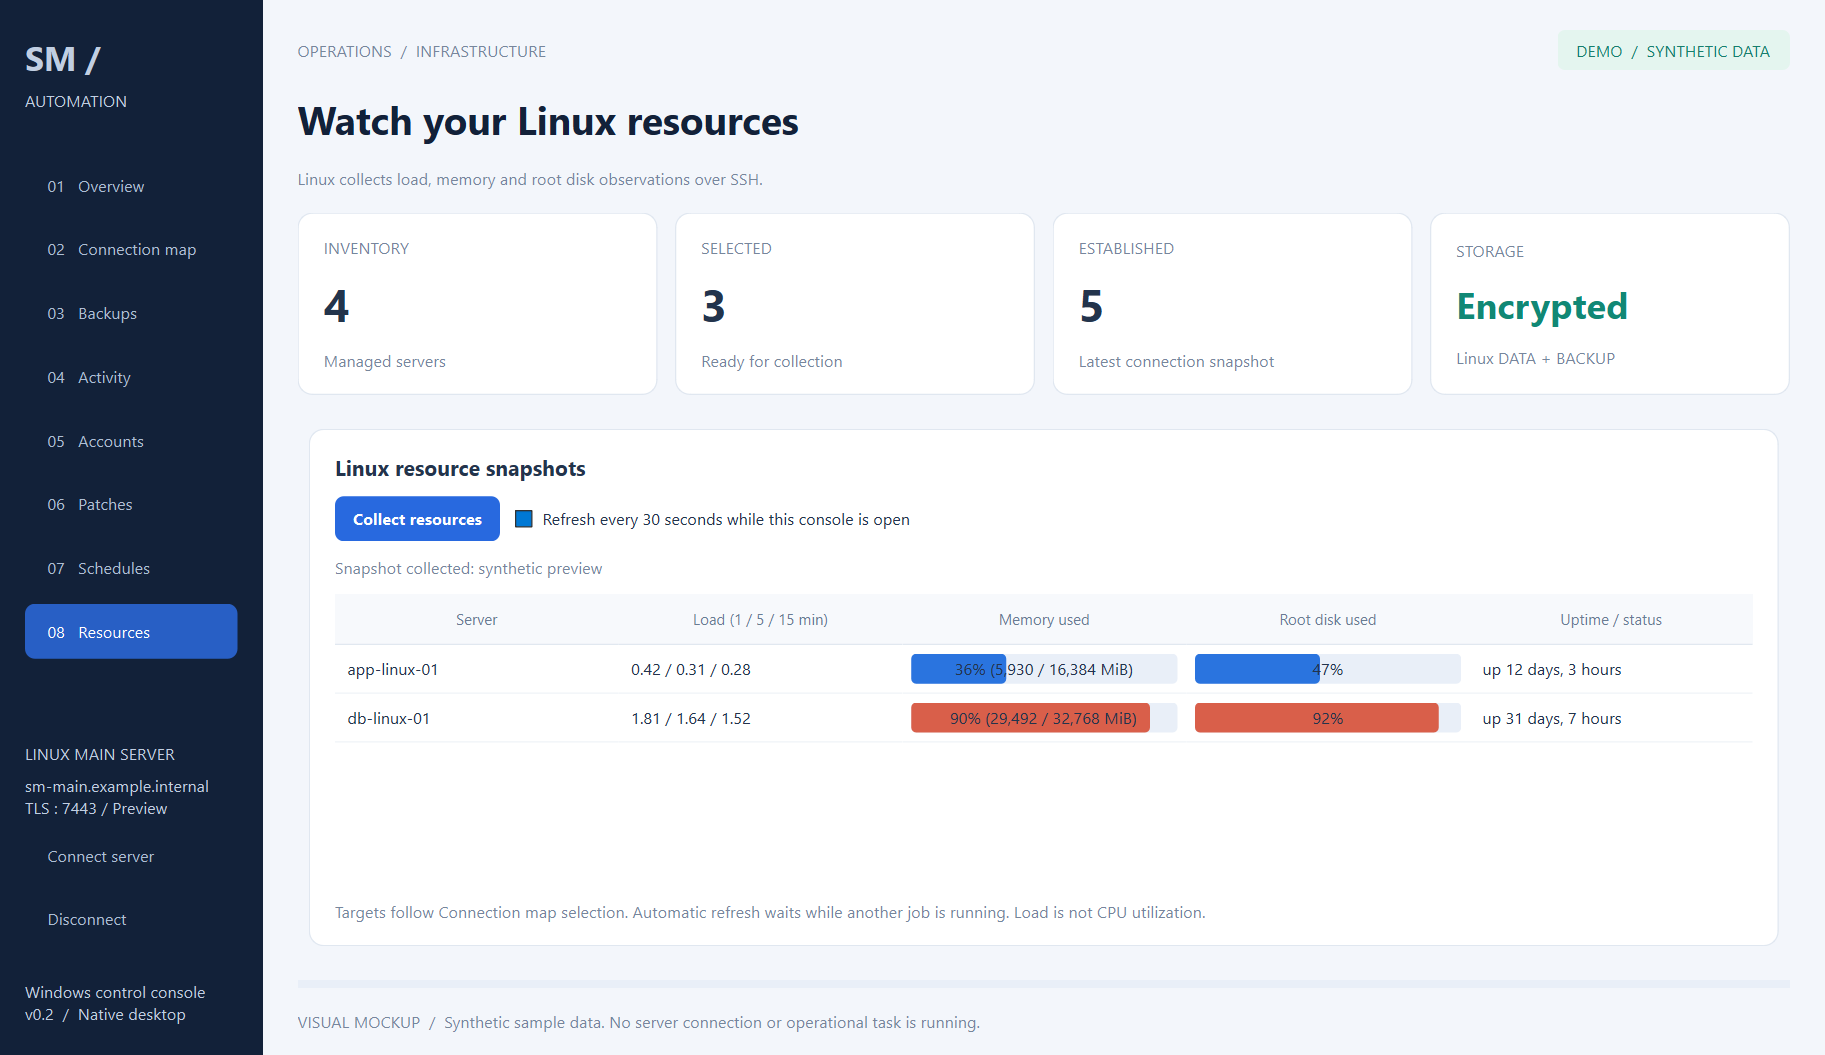
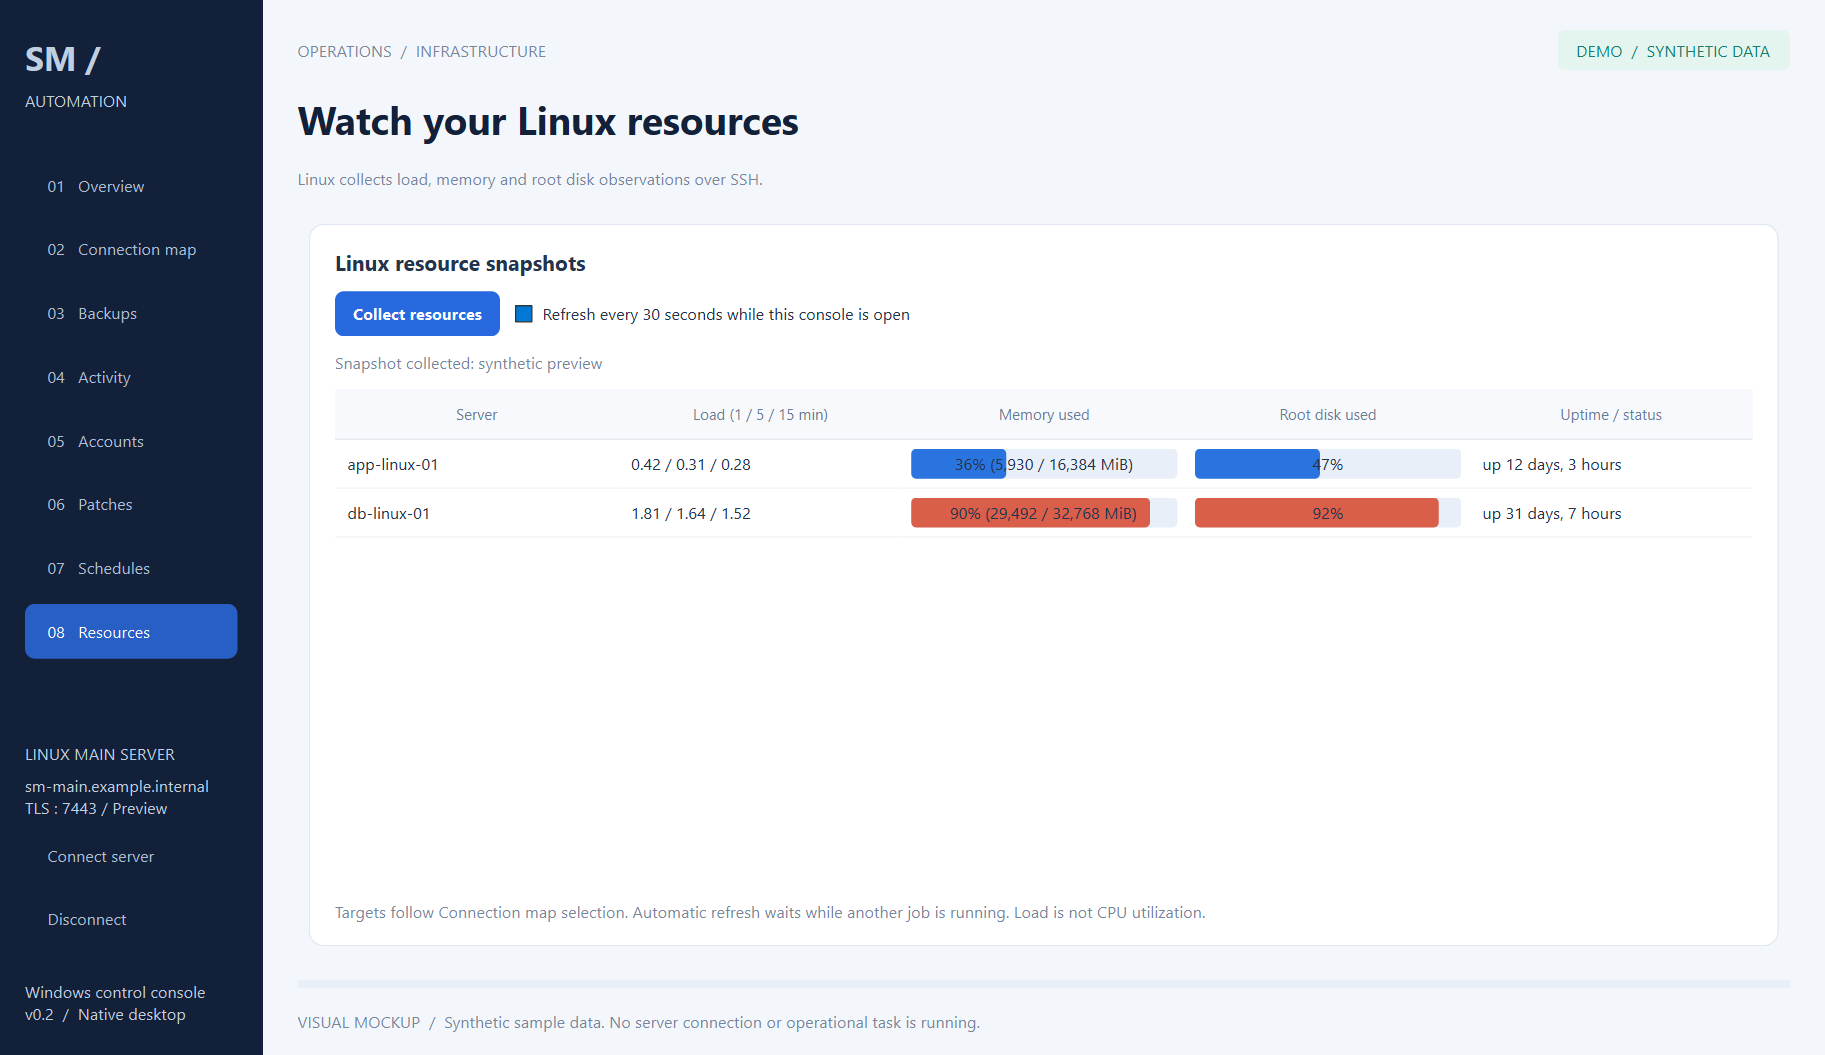
Apply reviewed RHEL plans from verified local signed RPMs and improve desktop layout

diff --git a/src/patch/rpm_plan.py b/src/patch/rpm_plan.py
@@ -1,4 +1,4 @@
-"""Resolve pinned RHEL DNF plans without installing or downloading packages."""
+"""Resolve cached RHEL DNF plans and apply prepared, verified local RPMs."""
 import json
 import shlex
 
@@ -8,9 +8,13 @@ from engine.remote import capture, privileged
 SCRIPT = r'''
 import hashlib
 import json
+import os
+from pathlib import Path
+import stat
 import sys
 import dnf
 import dnf.rpm
+import hawkey
 import rpm
 
 def identity(package):
@@ -25,15 +29,64 @@ def record(package):
             'repository': package.reponame,
             'checksum': [checksum[0], checksum[1].hex()] if checksum else None}
 
-def resolve(specs):
+def verify_cached_package(package):
+    path = Path(package.localPkg())
+    if not path.is_absolute():
+        raise ValueError('Cached RPM path must be absolute')
+    for parent in path.parents:
+        info = parent.lstat()
+        if not stat.S_ISDIR(info.st_mode) or info.st_uid != 0 or info.st_mode & 0o022:
+            raise ValueError('RPM cache must use root-owned directories without group/world write access')
+    file = os.open(str(path), os.O_RDONLY | os.O_NOFOLLOW | os.O_NONBLOCK)
+    try:
+        info = os.fstat(file)
+        if not stat.S_ISREG(info.st_mode) or info.st_uid != 0 or info.st_mode & 0o022:
+            raise ValueError('RPM must be a root-owned regular file without group/world write access')
+        checksum = package.chksum
+        if not checksum:
+            raise ValueError('RPM repository checksum is missing')
+        algorithm = hawkey.chksum_name(checksum[0])
+        if algorithm not in ('sha256', 'sha384', 'sha512'):
+            raise ValueError('RPM requires a SHA-256 or stronger repository checksum')
+        digest = hashlib.new(algorithm)
+        with os.fdopen(file, 'rb', closefd=False) as stream:
+            while True:
+                chunk = stream.read(1048576)
+                if not chunk:
+                    break
+                digest.update(chunk)
+        if digest.digest() != checksum[1]:
+            raise ValueError('Cached RPM checksum does not match reviewed metadata')
+    finally:
+        os.close(file)
+
+def commit_transaction(base, expected, plan):
+    for field in ('pins', 'operations', 'rpm_state'):
+        if expected.get(field) != plan[field]:
+            raise ValueError('RPM state or dependencies changed since planning; create a new plan')
+    installs = list(base.transaction.install_set) if base.transaction else []
+    for package in installs:
+        verify_cached_package(package)
+        status, message = base.package_signature_check(package)
+        if status != 0:
+            raise ValueError('RPM signature verification failed: ' + str(message))
+    if installs:
+        base.do_transaction()
+    return {'action': 'apply', 'manager': 'dnf', 'pins': plan['pins'],
+            'applied': len(installs), 'reboot_required': None,
+            'note': 'Used prepared signed RPMs only; no download or automatic reboot. Review reboot and service restart needs during maintenance'}
+
+def resolve(specs, apply_plan=None):
     with dnf.Base() as base:
         base.conf.read()
         base.conf.cacheonly = True
         base.conf.best = True
+        base.conf.gpgcheck = True
         base.conf.substitutions['releasever'] = dnf.rpm.detect_releasever('/')
         base.read_all_repos()
         for repo in base.repos.iter_enabled():
             repo.skip_if_unavailable = False
+            repo.gpgcheck = True
         if hasattr(base, 'fill_sack_from_repos_in_cache'):
             base.fill_sack_from_repos_in_cache(load_system_repo=True)
         else:
@@ -41,7 +94,7 @@ def resolve(specs):
         all_installed = list(base.sack.query().installed())
         state = sorted((p.name, p.arch, p.evr) for p in all_installed)
         state_hash = hashlib.sha256(json.dumps(state, separators=(',', ':')).encode()).hexdigest()
-        packages, pins = [], []
+        packages, pins, identities = [], [], set()
         for spec in specs:
             name, separator, requested = spec.partition('=')
             architecture = None
@@ -54,6 +107,9 @@ def resolve(specs):
             if len(old) != 1:
                 raise ValueError('Select one installed version and architecture using name:arch: ' + name)
             old = old[0]
+            if identity(old) in identities:
+                raise ValueError('Duplicate selected RPM identity')
+            identities.add(identity(old))
             available = base.sack.query().available().filter(name=name, arch=old.arch).upgrades()
             if requested:
                 candidates = [p for p in available if p.evr == requested or p.evr == '0:' + requested]
@@ -81,21 +137,40 @@ def resolve(specs):
         operations = sorted([{'action': 'install', **record(p)} for p in installs] +
                             [{'action': 'replace_old', 'name': p.name, 'architecture': p.arch, 'version': p.evr} for p in removes],
                             key=lambda item: (item['action'], item['name'], item['architecture'], item['version']))
-        return {'action': 'plan', 'manager': 'dnf', 'pins': pins, 'packages': packages,
-                'operations': operations, 'rpm_state': state_hash, 'apply_supported': False,
+        plan = {'action': 'plan', 'manager': 'dnf', 'pins': pins, 'packages': packages,
+                'operations': operations, 'rpm_state': state_hash, 'apply_supported': True,
                 'output': json.dumps(operations, indent=2),
-                'note': 'Cache-only DNF resolution. RPM application adapter is still pending; nothing installed or downloaded'}
+                'note': 'Cache-only DNF resolution; nothing installed or downloaded. Apply requires prepared signed RPMs in root-owned cache directories'}
+        return commit_transaction(base, apply_plan, plan) if apply_plan is not None else plan
 '''
 
 
-def make_plan(client, packages, mode):
-    payload = json.dumps(packages, separators=(",", ":"))
-    script = SCRIPT + "\nprint(json.dumps(resolve(json.loads(sys.argv[1]))))\n"
+def execute(client, packages, mode, expected=None):
+    payload = json.dumps({"packages": packages, "expected": expected}, separators=(",", ":"))
+    script = SCRIPT + "\nrequest = json.loads(sys.argv[1])\nresult = resolve(request['packages'], request['expected'])\nprint('\\nSM_AUTOMATION_RESULT=' + json.dumps(result))\n"
     command = "for interpreter in /usr/libexec/platform-python /usr/bin/python3; do "
     command += '[ -x "$interpreter" ] || continue; "$interpreter" -c "import dnf" >/dev/null 2>&1 || continue; '
     command += 'exec "$interpreter" -c ' + shlex.quote(script) + " " + shlex.quote(payload) + "; done; "
     command += "echo 'RHEL planning requires system Python DNF bindings' >&2; exit 1"
-    response = capture(client, privileged(command, mode), timeout=180, max_bytes=4 * 1024 * 1024)
+    response = capture(client, privileged(command, mode), timeout=900 if expected is not None else 180, max_bytes=4 * 1024 * 1024)
     if response.exit_code:
         raise RuntimeError(response.stderr.strip() or "DNF plan resolution failed")
-    return json.loads(response.stdout)
+    output = response.stdout.decode("utf-8", errors="replace")
+    prefix, separator, payload = output.rpartition("\nSM_AUTOMATION_RESULT=")
+    if not separator:
+        raise ValueError("DNF did not return a structured result; inspect Linux job history")
+    result = json.loads(payload)
+    if expected is not None:
+        result["output"] = prefix.strip()
+    result["warnings"] = response.stderr
+    return result
+
+
+def make_plan(client, packages, mode):
+    return execute(client, packages, mode)
+
+
+def apply_plan(client, plan, mode):
+    if not plan.get("apply_supported"):
+        raise ValueError("Regenerate the RHEL patch plan with the current adapter")
+    return execute(client, plan["pins"], mode, expected=plan)

diff --git a/src/desktop/main.py b/src/desktop/main.py
@@ -104,9 +104,19 @@ class Worker(QRunnable):
 
     def run(self):
         try:
-            self.signals.done.emit(self.fn())
+            result = self.fn()
         except Exception as exc:
-            self.signals.error.emit(str(exc))
+            self.deliver(self.signals.error, str(exc))
+        else:
+            self.deliver(self.signals.done, result)
+
+    @staticmethod
+    def deliver(signal, value):
+        try:
+            signal.emit(value)
+        except RuntimeError as exc:
+            if "Signal source has been deleted" not in str(exc):
+                raise
 
 
 class ConnectDialog(QDialog):
@@ -202,12 +212,14 @@ class Console(QMainWindow):
         self.subtitle = label("One control console. All operational work on your Linux server.", "subtitle"); content.addWidget(self.subtitle)
         metrics = QHBoxLayout(); metrics.setSpacing(14)
         self.metric_values = []
+        self.metric_cards = []
         for title, value, foot in [("INVENTORY", "0", "Managed servers"), ("SELECTED", "0", "Ready for collection"),
                                     ("ESTABLISHED", "—", "Latest connection snapshot"), ("STORAGE", "Encrypted", "Linux DATA + BACKUP")]:
             frame, layout = card(); layout.addWidget(label(title, "subtitle")); number = label(value, "metric")
             if value == "Encrypted":
                 number.setStyleSheet("font-size:22pt;color:#118875;font-weight:700")
             layout.addWidget(number); layout.addWidget(label(foot, "subtitle")); metrics.addWidget(frame)
+            self.metric_cards.append(frame)
             self.metric_values.append(number)
         content.addLayout(metrics)
         self.pages = QStackedWidget(); content.addWidget(self.pages, 1)
@@ -404,12 +416,12 @@ class Console(QMainWindow):
         self.patch_packages = QLineEdit(); self.patch_packages.setPlaceholderText("Installed packages, separated by spaces: openssh-server net-tools")
         actions.addWidget(self.patch_packages, 1)
         actions.addWidget(button("Preview patch plan", self.plan_patches, True)); body.addLayout(actions)
-        self.patch_table = table(["Server", "Package", "Installed", "Planned version"]); body.addWidget(self.patch_table, 1)
-        self.patch_output = QPlainTextEdit(); self.patch_output.setReadOnly(True); body.addWidget(self.patch_output, 1)
+        self.patch_table = table(["Server", "Package", "Installed", "Planned version"]); self.patch_table.setMinimumHeight(150); body.addWidget(self.patch_table, 2)
+        self.patch_output = QPlainTextEdit(); self.patch_output.setReadOnly(True); self.patch_output.setMinimumHeight(100); body.addWidget(self.patch_output, 1)
         self.patch_plan_id = None
         self.patch_apply = button("Apply reviewed plan", self.apply_patches, True); self.patch_apply.setEnabled(False)
         body.addWidget(self.patch_apply)
-        patch_note = label("Debian/Ubuntu: reviewed plans and backed-up apply. RHEL/DNF: cached discovery and version-pinned preview; apply pending. No automatic reboot.")
+        patch_note = label("Debian/Ubuntu and RHEL/DNF: reviewed plans and backed-up apply. RHEL requires prepared signed RPMs. No automatic reboot.")
         patch_note.setWordWrap(True); body.addWidget(patch_note)
         layout.addWidget(frame); self.pages.addWidget(page)
 
@@ -506,6 +518,8 @@ class Console(QMainWindow):
         self.work(lambda: client.call("job.cancel", id=job_id), lambda _: self.poll())
 
     def navigate(self, index):
+        for metric in self.metric_cards:
+            metric.setVisible(index < 4)
         self.pages.setCurrentIndex(index)
         titles = ["Infrastructure overview", "Explore your connections", "Protect your configurations", "Every operation, in view", "Manage Linux accounts", "Plan your Linux patches", "Keep operations on schedule", "Watch your Linux resources"]
         self.title.setText(titles[index])
@@ -806,8 +820,9 @@ class Console(QMainWindow):
         self.account_action.setCurrentIndex(1)
         for name, value in {"username": "ops_example", "sr": "SR2026", "full_name": "Example Operator", "uid": "2001"}.items():
             self.account_fields[name].setText(value)
-        fill_table(self.patch_table, [["app-linux-01", "openssh-server", "1:9.6p1-3ubuntu13.10", "1:9.6p1-3ubuntu13.14"]])
-        self.patch_output.setPlainText("SYNTHETIC PATCH PLAN\n1 package upgraded, 0 removed.\nApply after reviewing the Linux package manager simulation.")
+        fill_table(self.patch_table, [["web-prod-01", "openssh-server:x86_64", "8.7p1-38.el9_4.1", "8.7p1-38.el9_4.4"],
+                                      ["app-prod-02", "openssh-server", "1:9.6p1-3ubuntu13.10", "1:9.6p1-3ubuntu13.14"]])
+        self.patch_output.setPlainText("SYNTHETIC PATCH PLAN / RHEL AND UBUNTU\n2 selected packages upgraded, 0 unrelated removals.\nRHEL: prepared signed RPMs required; no download or automatic reboot.\nLinux backs up each target before applying a reviewed plan.")
         self.display_schedules([{"id": "demo-schedule", "next_run": "2026-10-09T01:00:00+09:00", "kind": "backup", "hosts": ["app-linux-01", "db-linux-01"], "interval_seconds": 86400, "enabled": True, "message": "Waiting on Linux"}])
         self.schedule_time.setDateTime(QDateTime.fromString("2026-10-09T01:00:00", Qt.DateFormat.ISODate))
         self.schedule_interval.setValue(1440)

diff --git a/tests/test_rpm_plan.py b/tests/test_rpm_plan.py
@@ -52,6 +52,7 @@ def resolver(monkeypatch, unrelated_removal=False, no_changes=False):
     dnf = ModuleType("dnf"); dnf.__path__ = []; dnf.Base = Base
     dnf.rpm = ModuleType("dnf.rpm"); dnf.rpm.detect_releasever = lambda _: "9"
     rpm = ModuleType("rpm"); rpm.labelCompare = lambda left, right: (left > right) - (left < right)
+    monkeypatch.setitem(sys.modules, "hawkey", ModuleType("hawkey"))
     monkeypatch.setitem(sys.modules, "dnf", dnf)
     monkeypatch.setitem(sys.modules, "dnf.rpm", dnf.rpm)
     monkeypatch.setitem(sys.modules, "rpm", rpm)
@@ -63,7 +64,7 @@ def test_rhel_plan_pins_versions_and_records_dependency_operations(monkeypatch):
     plan = resolver(monkeypatch)(["pkg:x86_64"])
     assert plan["pins"] == ["pkg:x86_64=2-1"]
     assert [item["action"] for item in plan["operations"]] == ["install", "replace_old"]
-    assert not plan["apply_supported"]
+    assert plan["apply_supported"]
 
 
 def test_rhel_plan_rejects_unrelated_removal(monkeypatch):
@@ -75,3 +76,32 @@ def test_empty_dnf_transaction_is_a_no_change_plan(monkeypatch):
     plan = resolver(monkeypatch, no_changes=True)(["pkg"])
     assert plan["operations"] == []
     assert plan["pins"] == ["pkg:x86_64=1-1"]
+
+
+@pytest.mark.parametrize("field", ["pins", "operations", "rpm_state"])
+def test_changed_rhel_plan_never_reaches_package_verification(monkeypatch, field):
+    scope = resolver(monkeypatch).__globals__
+    scope["verify_cached_package"] = lambda package: pytest.fail("Changed plans must not reach package verification")
+    plan = {"pins": [], "operations": [], "rpm_state": "current"}
+    expected = {**plan, field: "changed"}
+    with pytest.raises(ValueError, match="changed since planning"):
+        scope["commit_transaction"](None, expected, plan)
+
+
+@pytest.mark.parametrize("signature_status", [0, 1, 2])
+def test_signature_failure_prevents_rpm_transaction(monkeypatch, signature_status):
+    scope = resolver(monkeypatch).__globals__
+    events = []
+    scope["verify_cached_package"] = lambda package: events.append("checksum")
+    base = SimpleNamespace(transaction=SimpleNamespace(install_set=[object()]),
+                           package_signature_check=lambda package: (signature_status, "invalid signature"),
+                           do_transaction=lambda: events.append("apply"))
+    plan = {"pins": ["pkg:x86_64=2-1"], "operations": [], "rpm_state": "current"}
+    if signature_status:
+        with pytest.raises(ValueError, match="signature verification failed"):
+            scope["commit_transaction"](base, plan, plan)
+        assert events == ["checksum"]
+    else:
+        result = scope["commit_transaction"](base, plan, plan)
+        assert result["applied"] == 1
+        assert events == ["checksum", "apply"]

diff --git a/src/patch/manager.py b/src/patch/manager.py
@@ -1,4 +1,4 @@
-"""Debian/Ubuntu patch discovery and version-pinned, removal-free plans."""
+"""Linux patch discovery and version-pinned plans for apt and RPM/DNF."""
 from __future__ import annotations
 
 import re
@@ -94,7 +94,8 @@ def make_plan(client, packages, mode):
 
 def apply_plan(client, plan, mode):
     if plan.get("manager") == "dnf":
-        raise ValueError("RPM application adapter is pending; reviewed RHEL plan cannot yet be applied")
+        from patch.rpm_plan import apply_plan as rpm_apply
+        return rpm_apply(client, plan, mode)
     operations, _ = simulate(client, plan["pins"], mode)
     if operations != plan["operations"]:
         raise ValueError("Package state changed since planning; create a fresh plan")

diff --git a/src/patch/rpm.py b/src/patch/rpm.py
@@ -46,4 +46,4 @@ def list_updates(client, mode):
     if response.exit_code == 100 and not packages:
         raise ValueError("DNF reported updates but no installed update rows could be read")
     return {"action": "list", "manager": "dnf", "packages": packages, "output": output,
-            "warnings": response.stderr, "note": "Existing cache only; RPM plan/apply is not supported. No refresh, install or reboot"}
+            "warnings": response.stderr, "note": "Existing cache only; preview a pinned plan before applying prepared signed RPMs. This query performs no refresh, install or reboot"}

diff --git a/docs/deployment.md b/docs/deployment.md
@@ -101,7 +101,10 @@ python3.11 -m venv .venv
 Python 버전 제공 기준: [Red Hat 공식 Python 설치 문서](https://docs.redhat.com/en/documentation/red_hat_enterprise_linux/9/html-single/installing_and_using_dynamic_programming_languages/index).
 기존 Linux 서비스 설치 절차를 이어서 적용한다. SSH 서비스 이름은 `sshd`다. GUI용 TLS 7443 및 관리 서버에서 대상 SSH 포트에 접근할 수 있게 환경의 방화벽 정책을 구성한다.
 대상 RHEL의 DNF 계획은 시스템 DNF Python 바인딩을 사용한다. RHEL 8의 platform-python 또는 RHEL 9의 시스템 python3를 우선하며 서버 가상환경의 Python과 분리한다.
-현재 업데이트 조회 및 버전 고정 계획만 연결했고 실제 RPM 적용기는 다음 단계다. RHEL 실환경 테스트는 수행하지 않았다.
+업데이트 조회·버전 고정 계획·백업 후 적용을 연결했다. 적용은 준비된 로컬 RPM만 사용하며 다운로드나 GPG 키 자동 가져오기를 하지 않는다.
+DNF 캐시 또는 file:// 저장소의 RPM과 상위 디렉터리는 root 소유이며 그룹/기타 사용자 쓰기 권한이 없어야 한다. RPM 서명 검증에 필요한 키는 대상에 미리 등록한다.
+다중 버전/아키텍처는 하나의 설치 버전만 선택할 수 있다. 커널처럼 여러 설치 버전을 유지하는 패키지는 현재 적용 계획에서 제외한다.
+RHEL 실환경 테스트는 수행하지 않았다. 현재 실제 테스트 환경은 사용자가 승인한 로컬 Ubuntu WSL이다.
 
 ### 서버별 SSH 프로필
 

diff --git a/docs/architecture.md b/docs/architecture.md
@@ -60,7 +60,7 @@ Linux 대상 SSH 비밀번호를 쓸 경우 서비스 환경변수 `SM_AUTOMATIO
 검색과 하단 표로 나머지를 확인한다. IPv4/IPv6 실환경 파싱은 다음 PC에서 확인한다.
 
 기존 보안 정책 평가·설정 변경 엔진을 GUI 감사·SSH 정책 계획·백업 후 적용에 연결한다. Ubuntu/Debian 전역 Include를 보존하며 조건부 Match 변경은 지원하지 않는다.
-Linux 계정 조회/생성/정보 변경/비밀번호 잠금/삭제 GUI와 변경 전 백업을 구현했다. Debian/Ubuntu 패치 조회·버전 지정 계획·백업 후 적용 GUI도 구현했다. 다른 OS 패치, 자동 복원, 전체 정책 적용 GUI는 후속 범위다.
+Linux 계정 조회/생성/정보 변경/공개키 등록/비밀번호 잠금/삭제 GUI와 변경 전 백업을 구현했다. Debian/Ubuntu 및 RHEL 패치 조회·버전 지정 계획·백업 후 적용 경로를 연결했다. RHEL 적용은 준비된 로컬 서명 RPM을 사용하며 실환경 미검증이다. AIX/Windows 패치, 자동 복원, 전체 정책 적용 GUI는 후속 범위다.
 
 예약 수집/백업은 Linux 스케줄러와 암호화 DATA에서 관리하며 GUI 종료와 독립적으로 실행한다.
 작업 취소는 대기 대상을 중단하며 이미 시작한 원격 명령의 결과를 보존한다. 자세한 동작은 docs/wsl-progress.md를 따른다.

diff --git a/docs/backups.md b/docs/backups.md
@@ -42,7 +42,7 @@ Windows는 OpenSSH와 PowerShell, 필요한 관리자 권한이 준비되어 있
 ## 결과 해석
 
 - completed: 해당 단계가 종료 코드 0이고 stderr가 없음
-- partial: 결과 파일은 있으나 명령 실패 또는 경고가 포함됨(없는 선택 경로도 포함)
+- partial: 결과 파일은 있으나 명령 실패 또는 예상하지 못한 stderr가 포함됨. 없는 선택 경로는 경고로 기록하며 그 자체로 partial 처리하지 않음
 - failed: 연결/권한/시간/크기 등으로 해당 항목을 저장하지 못함
 
 Unix 설정 파일은 tar 스트림을 받아 즉시 암호화한다. 원격/로컬 평문 임시파일을 만들지 않는다.
